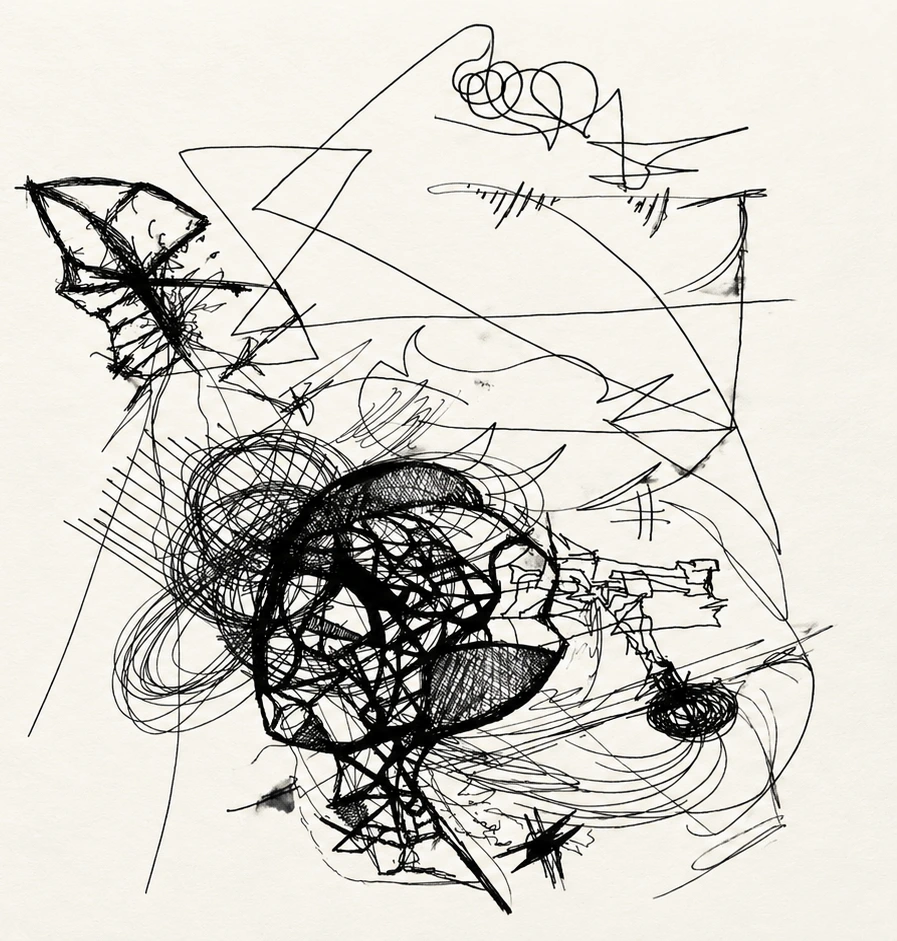
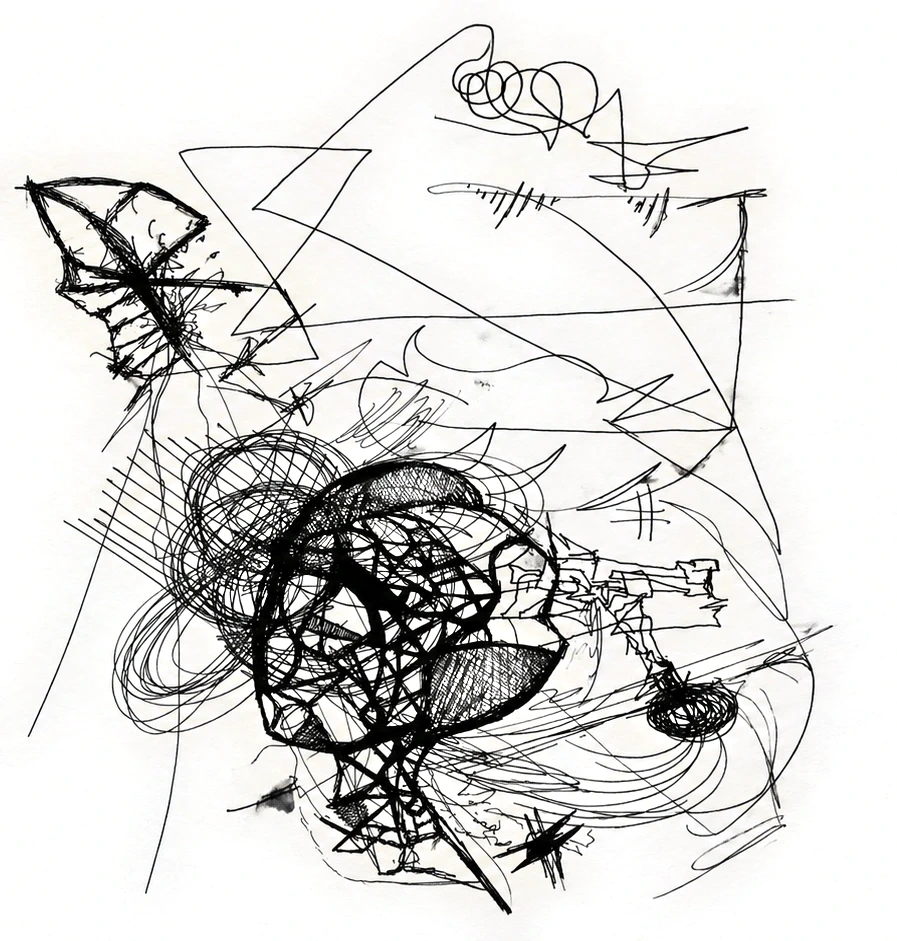
Fix image seams and rebalance the RISE block
Both images were composited with mix-blend-mode: multiply against a
non-white paper, so each rendered darker than the page and showed as a
visible rectangle. Flat-field the artwork to a pure white paper point so
multiply leaves the page colour untouched, and drop the plate, glow, and
radial-gradient feather that existed only to hide the seam.

Give the project its own title row instead of nesting three grids, so the
index, heading, thumbnail and copy stop competing for the same row.

Also: rise_flor 2.0MB PNG -> 210KB WebP, and correct the hero image's
width/height attributes, which declared 1200x1421 for an 897x941 file.

diff --git a/index.html b/index.html
@@ -30,8 +30,8 @@
         <img
           src="assets/mateo-drawing-2022.webp"
           alt="Mateo Robles's 2022 abstract ink drawing"
-          width="1200"
-          height="1421"
+          width="897"
+          height="941"
           decoding="async"
           fetchpriority="high"
         >
@@ -51,32 +51,32 @@
       <div class="shell" data-reveal>
         <h2 id="work-title">Selected Work</h2>
         <article class="project" aria-labelledby="rise-title">
-          <div class="project__index" aria-hidden="true">01</div>
-        
-          <div class="project__body">
-            <div class="project__layout">
-              <figure class="project__media">
-                <img
-                  src="assets/rise_flor.png"
-                  alt="RISE floral starburst thumbnail"
-                  width="1254"
-                  height="1254"
-                  loading="lazy"
-                  decoding="async"
-                >
-              </figure>
-        
-              <div class="project__copy">
-                <h3 id="rise-title">RISE</h3>
-                <p>
-                  An immersive browser-based reading environment for focused audiovisual
-                  text exploration — combining rapid serial presentation, procedural
-                  visuals, adaptive pacing, and generative audio into a single experience.
-                </p>
-                <div class="project__links" aria-label="RISE links">
-                  <a href="https://try-rise.syberlabs.space" target="_blank" rel="noreferrer">Try RISE ↗</a>
-                  <a href="https://rise.syberlabs.space/" target="_blank" rel="noreferrer">Full system ↗</a>
-                </div>
+          <header class="project__head">
+            <span class="project__index" aria-hidden="true">01</span>
+            <h3 id="rise-title">RISE</h3>
+          </header>
+
+          <div class="project__layout">
+            <figure class="project__media">
+              <img
+                src="assets/rise_flor.webp"
+                alt="RISE floral starburst thumbnail"
+                width="1254"
+                height="1254"
+                loading="lazy"
+                decoding="async"
+              >
+            </figure>
+
+            <div class="project__copy">
+              <p>
+                An immersive browser-based reading environment for focused audiovisual
+                text exploration — combining rapid serial presentation, procedural
+                visuals, adaptive pacing, and generative audio into a single experience.
+              </p>
+              <div class="project__links" aria-label="RISE links">
+                <a href="https://try-rise.syberlabs.space" target="_blank" rel="noreferrer">Try RISE ↗</a>
+                <a href="https://rise.syberlabs.space/" target="_blank" rel="noreferrer">Full system ↗</a>
               </div>
             </div>
           </div>

diff --git a/css/site.css b/css/site.css
@@ -118,30 +118,12 @@ h1 {
   text-transform: lowercase;
 }
 
+/* The artwork's paper is pure white, so multiply leaves the page colour exactly
+   as it is. No plate, glow, or feathered edge is needed to hide a seam. */
 .hero__art {
   justify-self: stretch;
   align-self: center;
-  position: relative;
-  padding: clamp(0.35rem, 0.8vw, 0.7rem);
-  border-radius: 0.35rem;
-  background: rgba(244, 241, 233, 0.92);
-  box-shadow:
-    0 0 0 1px rgba(17, 17, 17, 0.03),
-    0 0 36px rgba(244, 241, 233, 0.95);
-}
-
-.hero__art::after {
-  content: "";
-  position: absolute;
-  inset: -1rem;
-  border-radius: 0.65rem;
-  background: radial-gradient(
-    circle at center,
-    rgba(244, 241, 233, 0) 58%,
-    rgba(244, 241, 233, 0.42) 80%,
-    rgba(244, 241, 233, 0.88) 100%
-  );
-  z-index: -1;
+  margin: 0;
 }
 
 .hero__art img {
@@ -184,35 +166,39 @@ h2 {
 .work h2 { margin-bottom: clamp(4rem, 8vw, 7rem); }
 
 .project {
-  display: grid;
-  grid-template-columns: minmax(9rem, 0.34fr) minmax(0, 1fr);
-  gap: clamp(3rem, 8vw, 9rem);
   padding-top: clamp(2rem, 3vw, 3rem);
   border-top: 1px solid var(--ink);
 }
 
+.project__head {
+  display: flex;
+  align-items: baseline;
+  gap: clamp(1rem, 2vw, 1.75rem);
+}
+
 .project__index {
+  flex: none;
   color: var(--muted);
   font-size: 0.75rem;
   letter-spacing: 0.12em;
 }
 
 .project h3 {
-  font-size: clamp(3.8rem, 7.5vw, 7.4rem);
-  line-height: 0.88;
-  letter-spacing: -0.045em;
+  font-size: clamp(3rem, 5.6vw, 5.2rem);
+  line-height: 0.9;
+  letter-spacing: -0.04em;
 }
 
 .project__layout {
   display: grid;
-  grid-template-columns: minmax(13rem, 18rem) minmax(0, 1fr);
-  gap: clamp(2rem, 4vw, 4rem);
+  grid-template-columns: minmax(0, 0.85fr) minmax(0, 1.15fr);
+  gap: clamp(2rem, 5vw, 5rem);
   align-items: start;
+  margin-top: clamp(2.25rem, 4.5vw, 3.75rem);
 }
 
 .project__media {
   margin: 0;
-  align-self: start;
 }
 
 .project__media img {
@@ -223,8 +209,8 @@ h2 {
 }
 
 .project__copy > p {
-  max-width: 46rem;
-  margin-top: clamp(2rem, 4vw, 3.5rem);
+  max-width: 34rem;
+  margin-top: 0;
   font-size: clamp(1.1rem, 1.45vw, 1.32rem);
 }
 
@@ -316,20 +302,19 @@ h2 {
     max-height: none;
   }
 
-  .section__grid,
-  .project {
+  .section__grid {
     grid-template-columns: 1fr;
     gap: 2rem;
   }
   .project__layout {
     grid-template-columns: 1fr;
-    gap: 2rem;
+    gap: 2.25rem;
   }
-  
+
   .project__media {
-    max-width: 16rem;
+    max-width: 20rem;
   }
-  .project h3 { font-size: clamp(4rem, 22vw, 7rem); }
+  .project h3 { font-size: clamp(2.75rem, 15vw, 4.5rem); }
   .footer-line { margin-top: 3.5rem; }
 }
 
